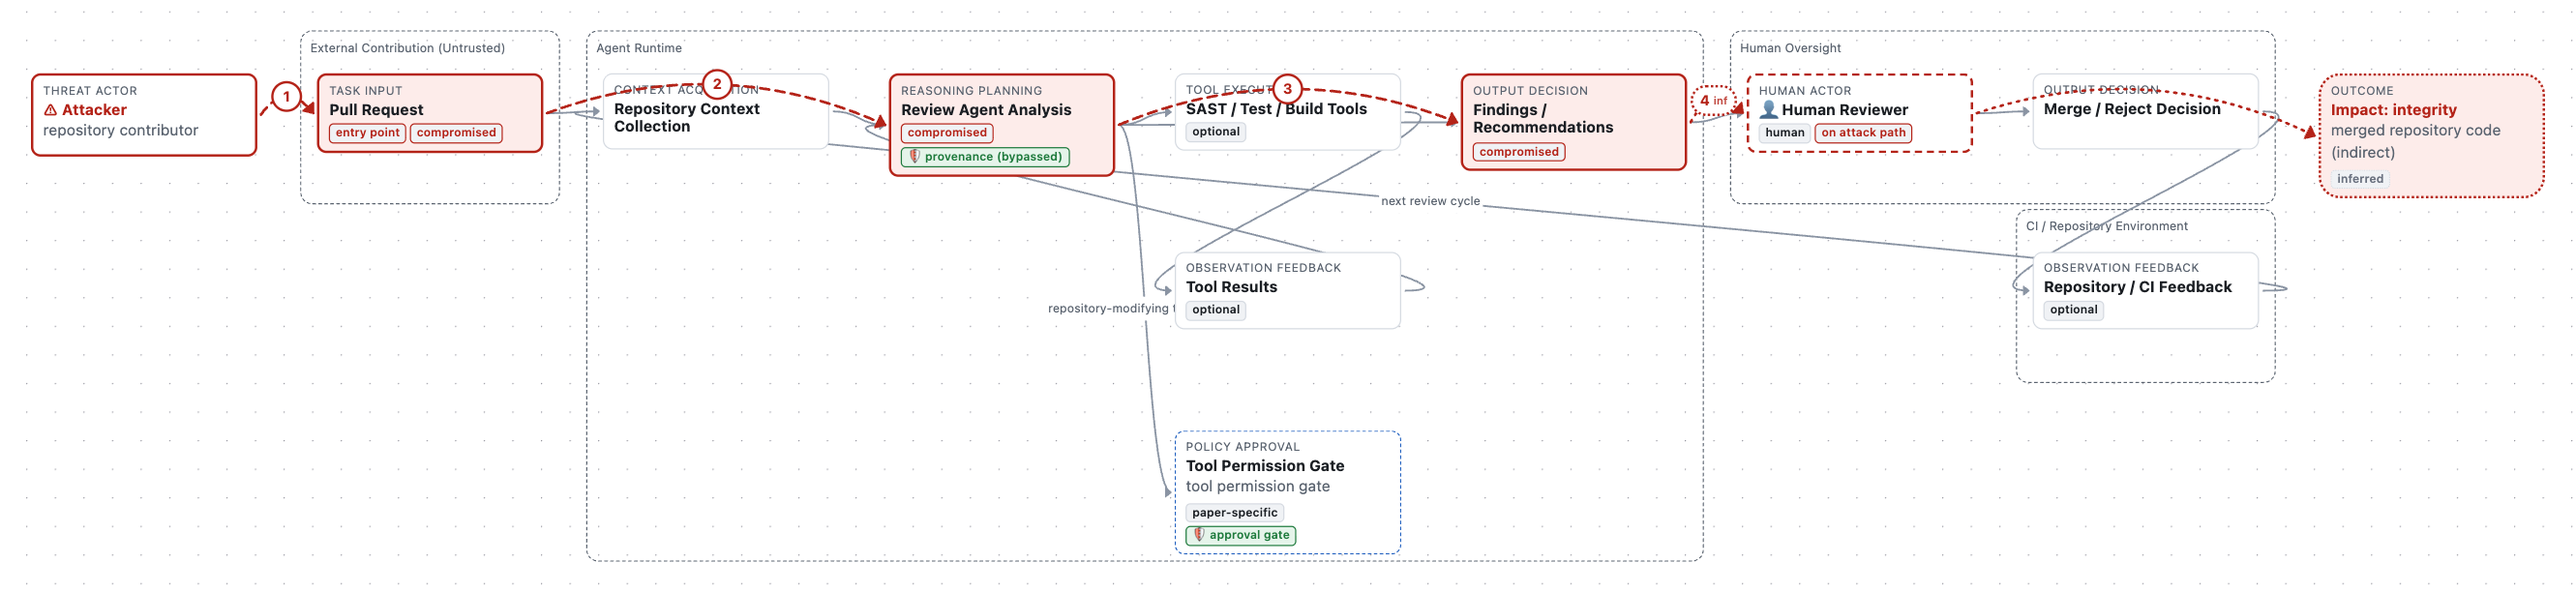
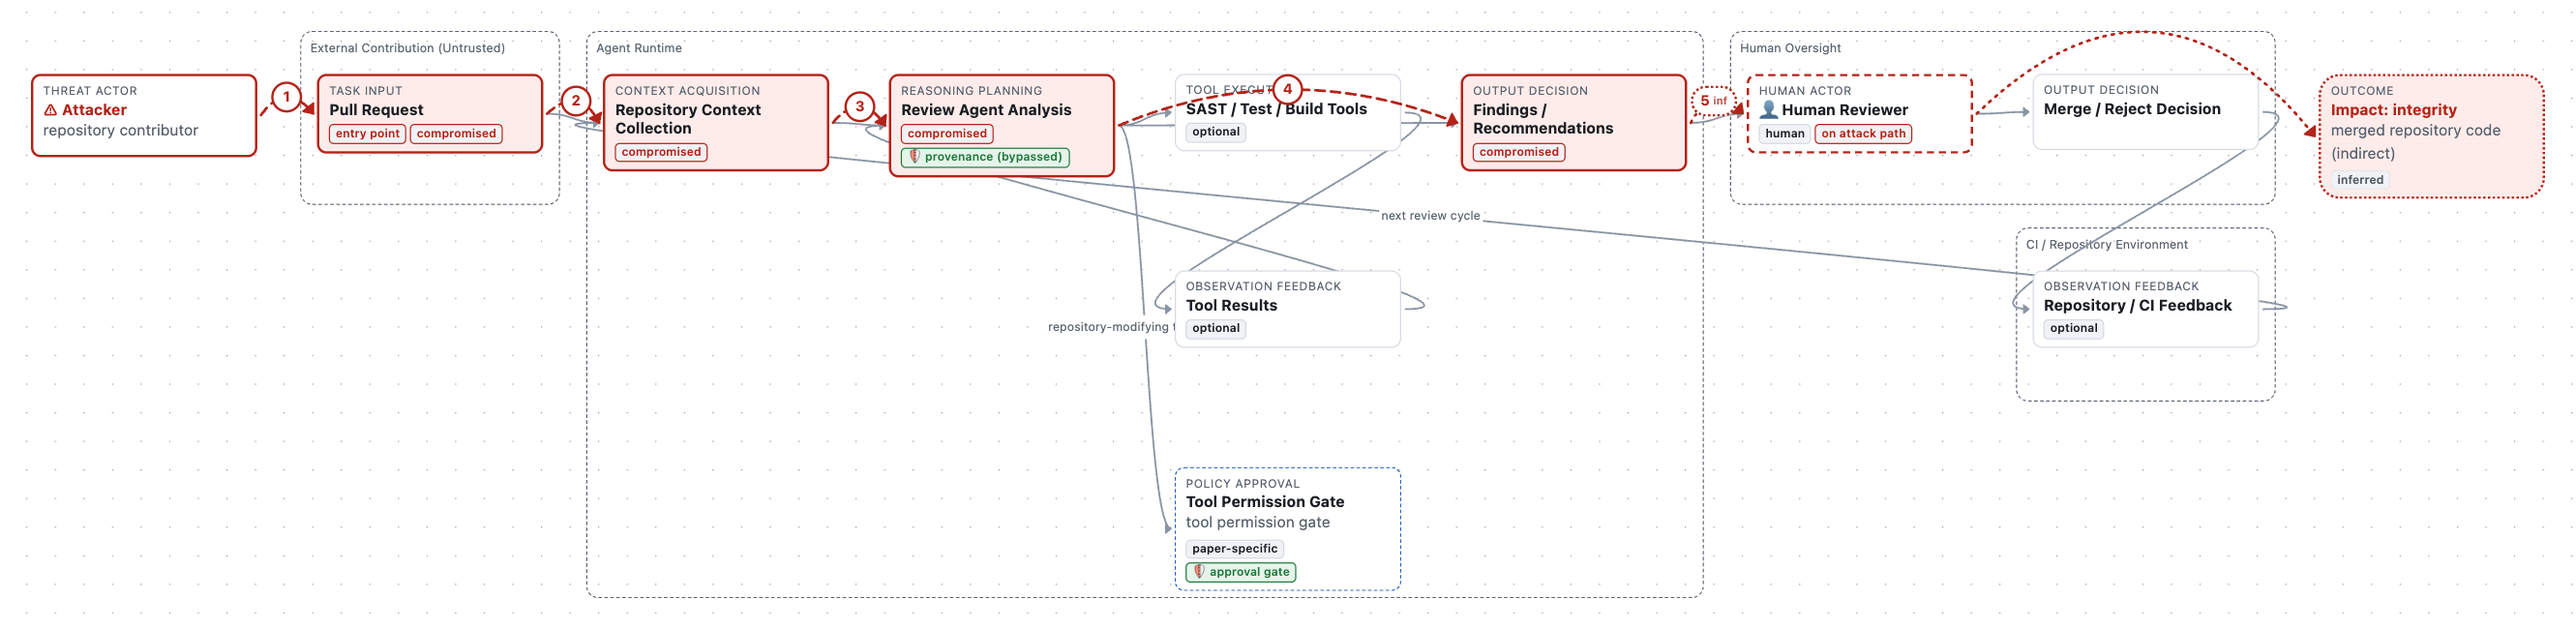
docs: refresh screenshots and roadmap after Phase 2

diff --git a/index.html b/index.html
@@ -308,7 +308,7 @@
             <img
               src="assets/overlay-retriever-backdoor.png"
               width="2662"
-              height="682"
+              height="724"
               alt="A code-generation pipeline. A dashed red attack path runs from the attacker into the retriever's fine-tuning data, then to the retriever (marked compromised and model-persistent), the generator, a bypassed static-analysis check, generated code, and a vulnerable-code impact. The knowledge base is left untouched."
             />
           </div>
@@ -371,14 +371,15 @@
                 <img
                   src="assets/overlay-pr-injection.png"
                   width="2662"
-                  height="612"
+                  height="650"
                   loading="lazy"
                   alt="A code-review pipeline. An attacker's hidden instruction enters through the pull-request description, passes the review agent despite a bypassed provenance defense, and produces a manipulated finding that reaches the human reviewer, leading to an integrity impact."
                 />
               </div>
               <figcaption>
-                Code review: an instruction hidden in a pull-request description manipulates the
-                review agent. The provenance defense the paper evaluated is shown as bypassed.
+                Code review: an instruction hidden in a pull-request description is assembled into
+                the review input and manipulates the review agent. The provenance defense the paper
+                evaluated is shown as bypassed.
               </figcaption>
             </figure>
             <figure>
@@ -452,16 +453,18 @@
               Page-aware PDF parsing, validated and versioned threat models, review and
               verification, and evidence-linked diagrams.
             </li>
+            <li class="done">
+              <strong>End-to-end testing and hardening</strong><span class="tag">done</span>
+            </li>
+            <li class="done">
+              <strong>Side-by-side comparison and cross-paper analysis</strong
+              ><span class="tag">done</span><br />
+              Aligned overlays that separate real differences from what a paper leaves unstated;
+              which components get attacked, which defenses were tested against which attackers,
+              and which assumptions papers omit.
+            </li>
             <li class="next">
-              <strong>End-to-end testing and hardening</strong><span class="tag">next</span>
-            </li>
-            <li>
-              <strong>Side-by-side comparison and cross-paper analysis</strong><br />
-              Which components get attacked, which defenses were tested against which attackers,
-              and which assumptions papers leave unstated.
-            </li>
-            <li>
-              <strong>Real corpus with assisted extraction</strong><br />
+              <strong>Real corpus with assisted extraction</strong><span class="tag">next</span><br />
               Machine-drafted, human-verified threat models of published coding-agent security
               papers.
             </li>
